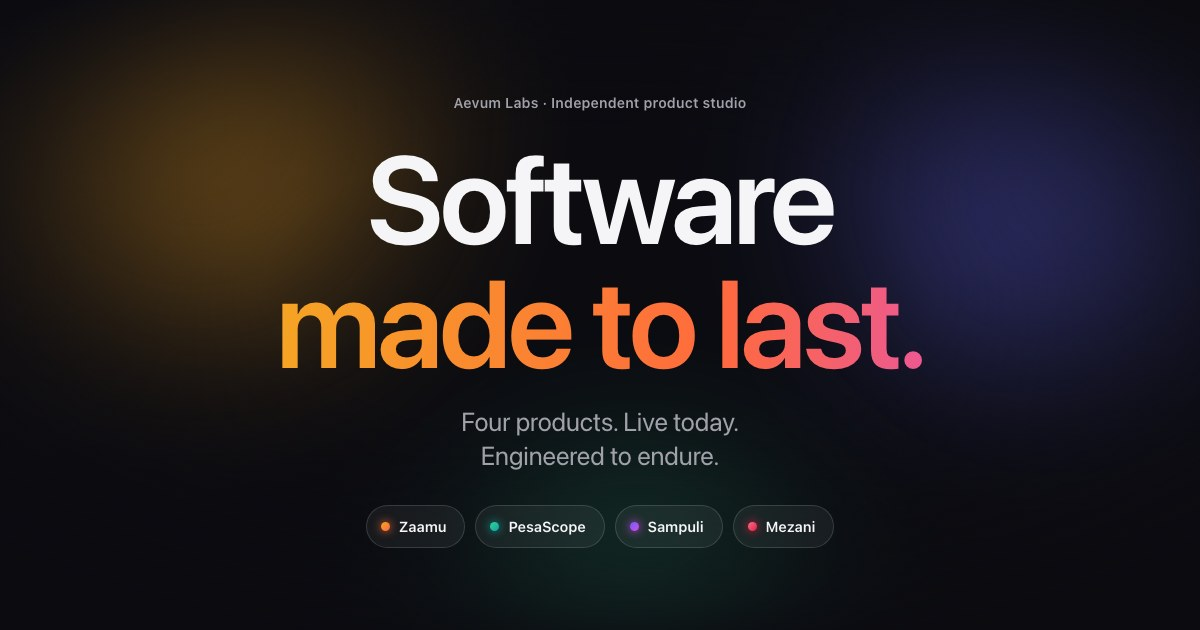
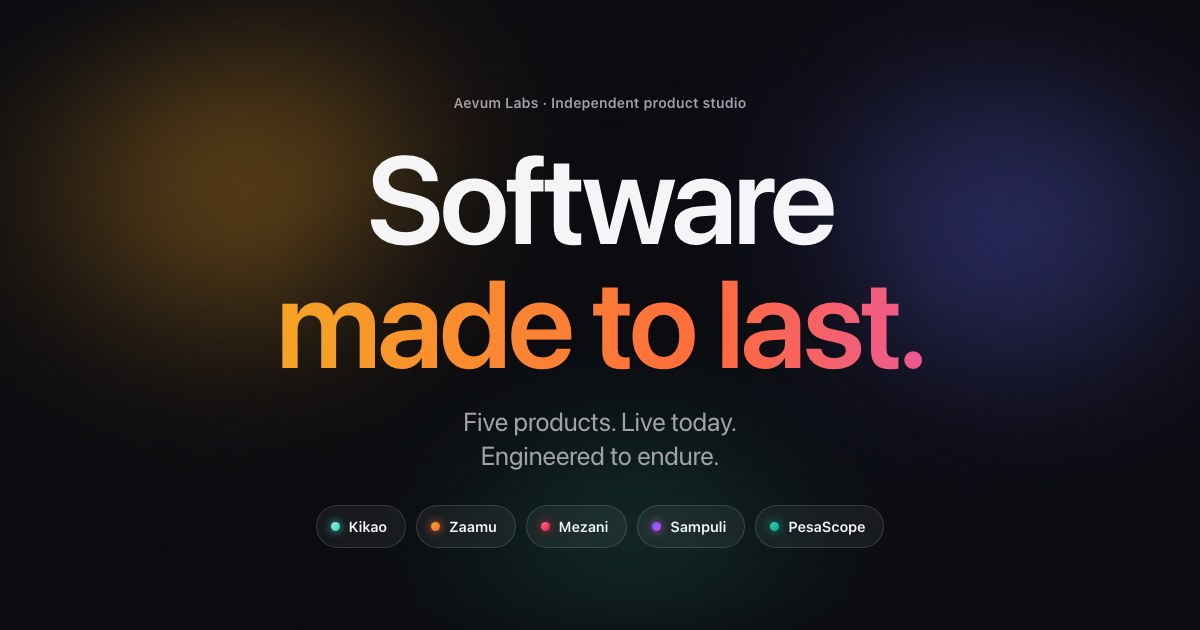
Add Kikao as the flagship product
Kikao (kikao.site) joins the studio as its newest product and leads the page:
first chapter after the hero, first in the nav and hero chips, "Five products".

- Chapter on Kikao's own deep-teal ground (new optional `ground` on a product),
  so it reads apart from the black hero and PesaScope's emerald chapter.
- Real captures only, from Kikao's demo mode: office Overview (laptop), field
  Today (phone), and the decision journey — one queue, a request with its
  approval chain and three-way match, then approved and sealing into the record.
  The demo company's founder-named sample persona was renamed in a throwaway
  worktree before capture, keeping the founder anonymous here.
- Bento: approval chain, "KSh 0 moved by Kikao", the Friday close (M-Pesa bulk
  wage file), and the hash-chained audit trail — each claim checked in code.
- JSON-LD SoftwareApplication, meta/OG descriptions, llms.txt, llms-full.txt,
  and a refreshed og.jpg.
- scripts/capture-kikao-demo.cjs reproduces the captures.

Changed region(s): [[0.2467, 0.8143, 0.74, 0.8746], [0.37, 0.6635, 0.6167, 0.6937]]

diff --git a/src/App.jsx b/src/App.jsx
@@ -8,6 +8,27 @@ const CONTACT_EMAIL = 'support@zaamu.com'
 
 const PRODUCTS = [
   {
+    // The flagship: first chapter, on its own deep-teal ground (Kikao's brand),
+    // so it reads apart from both the black hero and PesaScope's emerald.
+    id: 'kikao',
+    name: 'Kikao',
+    domain: 'kikao.site',
+    url: 'https://kikao.site',
+    tone: 'dark',
+    ground: 'radial-gradient(ellipse 130% 60% at 50% 0%, #11504a 0%, #0c3936 48%, #082725 100%)',
+    c1: '#A7EFE1',
+    c2: '#2DD4BF',
+    deep: '#134E4A',
+    numInk: '#0c3936', // mint is too light for white numerals — dark ink, like Kikao's own buttons
+    glow: 'rgba(167, 239, 225, 0.18)',
+    screenBg: '#f7faf8',
+    eyebrow: 'Operations for building contractors',
+    flag: 'New',
+    headline: ['Decisions shouldn’t', 'disappear into a chat.'],
+    sub: 'Approvals, attendance and payments for building contractors — decided from the office or the phone, every step written to one unbroken record.',
+    shots: { desktop: '/shots/kikao-desktop', mobile: '/shots/kikao-mobile.webp' },
+  },
+  {
     id: 'zaamu',
     name: 'Zaamu',
     domain: 'zaamu.com',
@@ -237,6 +258,13 @@ function Journey({ captions, images, alt }) {
   )
 }
 
+const KIKAO_CAPTIONS = [
+  { title: 'One queue for every decision.', body: 'Materials, orders, floats and payments raised on site land in one To do — ranked, on the office screen or the phone.' },
+  { title: 'Decide with the facts in hand.', body: 'Order, delivery and invoice matched, the price against the last five, photos from site. Approve, approve less, ask or reject.' },
+  { title: 'Sealed into the record.', body: 'Ten seconds to undo, then it’s sealed. Finance records the payment next, and the site manager is told.' },
+]
+const KIKAO_SHOTS = ['/shots/kikao-app-1.webp', '/shots/kikao-app-2.webp', '/shots/kikao-app-3.webp']
+
 const ZAAMU_CAPTIONS = [
   { title: 'Choose a service.', body: 'Barber, massage or salon — real prices, real durations, the shop’s own menu.' },
   { title: 'Pick your person.', body: 'Real barbers with real bios — or “Any available” finds the soonest open chair.' },
@@ -383,6 +411,46 @@ const EXTRAS = { sampuli: SampuliTerminals }
 /* ------------------------------------------------------------------ *
  * Tiles — a real thing in every tile: a measurement or working UI
  * ------------------------------------------------------------------ */
+
+function KikaoTiles() {
+  return (
+    <div className="bento">
+      <article className="tile" data-reveal>
+        <div className="demo">
+          <ol className="demo__chain" aria-label="An approval chain">
+            <li className="is-done"><i aria-hidden="true" /><b>Site manager</b><span>Raised · 08:12</span></li>
+            <li className="is-done"><i aria-hidden="true" /><b>Director</b><span>Approved · 10:51</span></li>
+            <li className="is-now"><i aria-hidden="true" /><b>Finance</b><span>Records the payment</span></li>
+          </ol>
+        </div>
+        <h3 className="tile__title">One request, from site to ledger</h3>
+        <p className="tile__body">Materials, orders, floats, leave and payments — each a typed request, routed by your own rules. Bigger amounts can call for a second director.</p>
+      </article>
+      <article className="tile" data-reveal>
+        <p className="tile__big">KSh 0</p>
+        <h3 className="tile__title">Moved by Kikao, ever</h3>
+        <p className="tile__body">Finance pays the way it always has and records the reference against the approval. Kikao keeps the record — never the money.</p>
+      </article>
+      <article className="tile" data-reveal>
+        <p className="tile__big">Friday</p>
+        <h3 className="tile__title">The week, closed</h3>
+        <p className="tile__body">Attendance marked on site becomes the M-Pesa bulk wage file finance uploads — and one Friday page shows every site, house and shilling committed.</p>
+      </article>
+      <article className="tile" data-reveal>
+        <div className="demo">
+          <div className="demo__ledger">
+            <p><span>08:12</span>Raised · cement, Site C</p>
+            <p><span>10:51</span>Approved · Director</p>
+            <p><span>Wed 11:04</span>Recorded · EFT 88311</p>
+            <p className="demo__ok">✓ Chain intact — nothing edited after the fact</p>
+          </div>
+        </div>
+        <h3 className="tile__title">A record no one can quietly edit</h3>
+        <p className="tile__body">Every request, decision and payment is sealed into a hash-chained, append-only audit trail. Corrections are new entries, never rewrites.</p>
+      </article>
+    </div>
+  )
+}
 
 function ZaamuTiles() {
   return (
@@ -549,8 +617,9 @@ function MezaniTiles() {
   )
 }
 
-const TILES = { zaamu: ZaamuTiles, pesascope: PesaTiles, sampuli: SampuliTiles, mezani: MezaniTiles }
+const TILES = { kikao: KikaoTiles, zaamu: ZaamuTiles, pesascope: PesaTiles, sampuli: SampuliTiles, mezani: MezaniTiles }
 const STORIES = {
+  kikao: () => <Journey captions={KIKAO_CAPTIONS} images={KIKAO_SHOTS} alt="The real Kikao app (demo company)" />,
   zaamu: () => <Journey captions={ZAAMU_CAPTIONS} images={ZAAMU_SHOTS} alt="The real Zaamu booking flow" />,
   pesascope: () => <Journey captions={PESA_CAPTIONS} images={PESA_SHOTS} alt="The real PesaScope dashboard (sample statement)" />,
   sampuli: () => <Journey captions={SAMPULI_CAPTIONS} images={SAMPULI_SHOTS} alt="The real Sampuli generator" />,
@@ -566,6 +635,8 @@ function Chapter({ p }) {
   const Story = STORIES[p.id]
   const Extra = EXTRAS[p.id]
   const style = { '--c1': p.c1, '--c2': p.c2, '--deep': p.deep, '--glow': p.glow, '--screen-bg': p.screenBg }
+  if (p.ground) style['--chapter-bg'] = p.ground // a product's own signature ground (Kikao)
+  if (p.numInk) style['--num-ink'] = p.numInk
   return (
     <section id={p.id} className={`chapter chapter--${p.tone}`} style={style}>
       <div className="chapter__glow" aria-hidden="true" />
@@ -633,7 +704,7 @@ export default function App() {
             <span className="hero-anim grad-hero" style={{ animationDelay: '180ms' }}>made to last.</span>
           </h1>
           <p className="hero__sub hero-anim" style={{ animationDelay: '300ms' }}>
-            Four products. Live today. Engineered to endure.
+            Five products. Live today. Engineered to endure.
           </p>
           <div className="hero__chips hero-anim" style={{ animationDelay: '420ms' }}>
             {PRODUCTS.map((p) => (
@@ -684,7 +755,7 @@ export default function App() {
           </p>
           <div className="contact__actions">
             <a href={`mailto:${CONTACT_EMAIL}`} className="btn btn--light">Say hello <Arrow /></a>
-            <a href="#zaamu" className="btn btn--outline">Explore the products</a>
+            <a href={`#${PRODUCTS[0].id}`} className="btn btn--outline">Explore the products</a>
           </div>
           <p className="contact__email"><a href={`mailto:${CONTACT_EMAIL}`}>{CONTACT_EMAIL}</a></p>
         </div>

diff --git a/index.html b/index.html
@@ -7,7 +7,7 @@
     <meta name="theme-color" content="#0A0A0B" />
 
     <title>Aevum Labs — an independent product studio</title>
-    <meta name="description" content="Aevum Labs designs and ships independent software products — durable tools built to last. Home of Zaamu, PesaScope, Sampuli and Mezani." />
+    <meta name="description" content="Aevum Labs designs and ships independent software products — durable tools built to last. Home of Kikao, Zaamu, Mezani, Sampuli and PesaScope." />
     <meta name="author" content="Aevum Labs" />
 
     <!-- Open Graph / social -->
@@ -15,13 +15,13 @@
     <meta property="og:site_name" content="Aevum Labs" />
     <meta property="og:url" content="https://aevumlabs.site/" />
     <meta property="og:title" content="Aevum Labs — an independent product studio" />
-    <meta property="og:description" content="Durable software products, engineered to endure. Zaamu · PesaScope · Sampuli · Mezani." />
+    <meta property="og:description" content="Durable software products, engineered to endure. Kikao · Zaamu · Mezani · Sampuli · PesaScope." />
     <meta property="og:image" content="https://aevumlabs.site/og.jpg" />
     <meta property="og:image:width" content="1200" />
     <meta property="og:image:height" content="630" />
     <meta name="twitter:card" content="summary_large_image" />
     <meta name="twitter:title" content="Aevum Labs — an independent product studio" />
-    <meta name="twitter:description" content="Durable software products, engineered to endure. Zaamu · PesaScope · Sampuli · Mezani." />
+    <meta name="twitter:description" content="Durable software products, engineered to endure. Kikao · Zaamu · Mezani · Sampuli · PesaScope." />
     <meta name="twitter:image" content="https://aevumlabs.site/og.jpg" />
 
     <!-- Structured data for search + AI agents -->
@@ -36,7 +36,7 @@
           "url": "https://aevumlabs.site/",
           "email": "support@zaamu.com",
           "slogan": "Software made to last",
-          "description": "An independent product studio building durable, practical software products \u2014 engineered to endure. Four products are live today: Zaamu, Mezani, Sampuli and PesaScope.",
+          "description": "An independent product studio building durable, practical software products \u2014 engineered to endure. Five products are live today: Kikao, Zaamu, Mezani, Sampuli and PesaScope.",
           "location": { "@type": "Place", "address": { "@type": "PostalAddress", "addressLocality": "Nairobi", "addressCountry": "KE" } }
         },
         {
@@ -45,6 +45,15 @@
           "url": "https://aevumlabs.site/",
           "name": "Aevum Labs",
           "publisher": { "@id": "https://aevumlabs.site/#org" }
+        },
+        {
+          "@type": "SoftwareApplication",
+          "name": "Kikao",
+          "applicationCategory": "BusinessApplication",
+          "operatingSystem": "Web",
+          "url": "https://kikao.site",
+          "publisher": { "@id": "https://aevumlabs.site/#org" },
+          "description": "Operations for building contractors: approvals, attendance and payments in one place. Requests raised on site are decided from the office or the phone, attendance becomes the M-Pesa bulk wage file, and every step is sealed into a hash-chained audit trail. Kikao never moves money \u2014 finance records each payment against its approval."
         },
         {
           "@type": "SoftwareApplication",

diff --git a/src/styles.css b/src/styles.css
@@ -363,7 +363,7 @@ html.js [data-reveal].is-visible {
   padding: 110px 0 100px;
 }
 .chapter--light { background: var(--paper); color: var(--text-d); }
-.chapter--dark { background: var(--ink); color: var(--text-l); }
+.chapter--dark { background: var(--chapter-bg, var(--ink)); color: var(--text-l); }
 .chapter__glow {
   position: absolute;
   left: 50%;
@@ -586,7 +586,7 @@ html.js [data-reveal].is-visible {
   border-radius: 50%;
   font-size: 13px;
   font-weight: 700;
-  color: #fff;
+  color: var(--num-ink, #fff);
   background: linear-gradient(135deg, var(--c1), var(--c2));
   margin-bottom: 10px;
   font-variant-numeric: tabular-nums;
@@ -748,6 +748,74 @@ html.js [data-reveal].is-visible {
 .demo__prompt { color: var(--deep); margin-right: 8px; }
 .demo__npm--wrap { white-space: pre-wrap; word-break: break-all; line-height: 1.6; }
 .chapter--light .demo__npm { box-shadow: 0 10px 26px -16px rgba(0, 0, 0, 0.5); }
+/* Kikao — an approval chain, and the sealed record it leaves */
+.demo__chain {
+  list-style: none;
+  margin: 0;
+  padding: 14px 16px;
+  border-radius: 14px;
+  background: rgba(255, 255, 255, 0.06);
+  border: 1px solid rgba(255, 255, 255, 0.1);
+  display: grid;
+  gap: 12px;
+}
+.demo__chain li {
+  position: relative;
+  display: grid;
+  grid-template-columns: 18px 1fr auto;
+  align-items: center;
+  gap: 10px;
+  font-size: 13px;
+}
+.demo__chain li + li::before {
+  /* the rail joining one step to the next */
+  content: '';
+  position: absolute;
+  left: 8px;
+  top: -12px;
+  height: 12px;
+  width: 2px;
+  background: rgba(167, 239, 225, 0.35);
+}
+.demo__chain i {
+  width: 18px;
+  height: 18px;
+  border-radius: 50%;
+  display: grid;
+  place-items: center;
+}
+.demo__chain .is-done i { background: var(--c1); }
+.demo__chain .is-done i::after {
+  content: '';
+  width: 7px;
+  height: 4px;
+  border: 2px solid var(--num-ink, #0c3936);
+  border-top: 0;
+  border-right: 0;
+  transform: translateY(-1px) rotate(-45deg);
+}
+.demo__chain .is-now i { border: 2px solid var(--c1); box-shadow: 0 0 0 4px rgba(167, 239, 225, 0.16); }
+.demo__chain b { font-weight: 600; }
+.demo__chain span { font-size: 11.5px; color: var(--text-l2); font-variant-numeric: tabular-nums; }
+.demo__chain .is-now span { color: var(--c1); font-weight: 600; }
+.demo__ledger {
+  padding: 13px 14px;
+  border-radius: 14px;
+  background: rgba(0, 0, 0, 0.22);
+  border: 1px solid rgba(255, 255, 255, 0.08);
+  font-size: 12.5px;
+}
+.demo__ledger p { display: flex; gap: 12px; margin-bottom: 7px; }
+.demo__ledger span {
+  flex: none;
+  width: 74px;
+  white-space: nowrap;
+  font-family: var(--mono);
+  font-size: 11.5px;
+  color: var(--text-l2);
+  font-variant-numeric: tabular-nums;
+}
+.demo__ledger .demo__ok { display: block; margin: 10px 0 0; padding-top: 9px; border-top: 1px dashed rgba(255, 255, 255, 0.14); }
 .demo__card {
   padding: 14px;
   border-radius: 14px;
